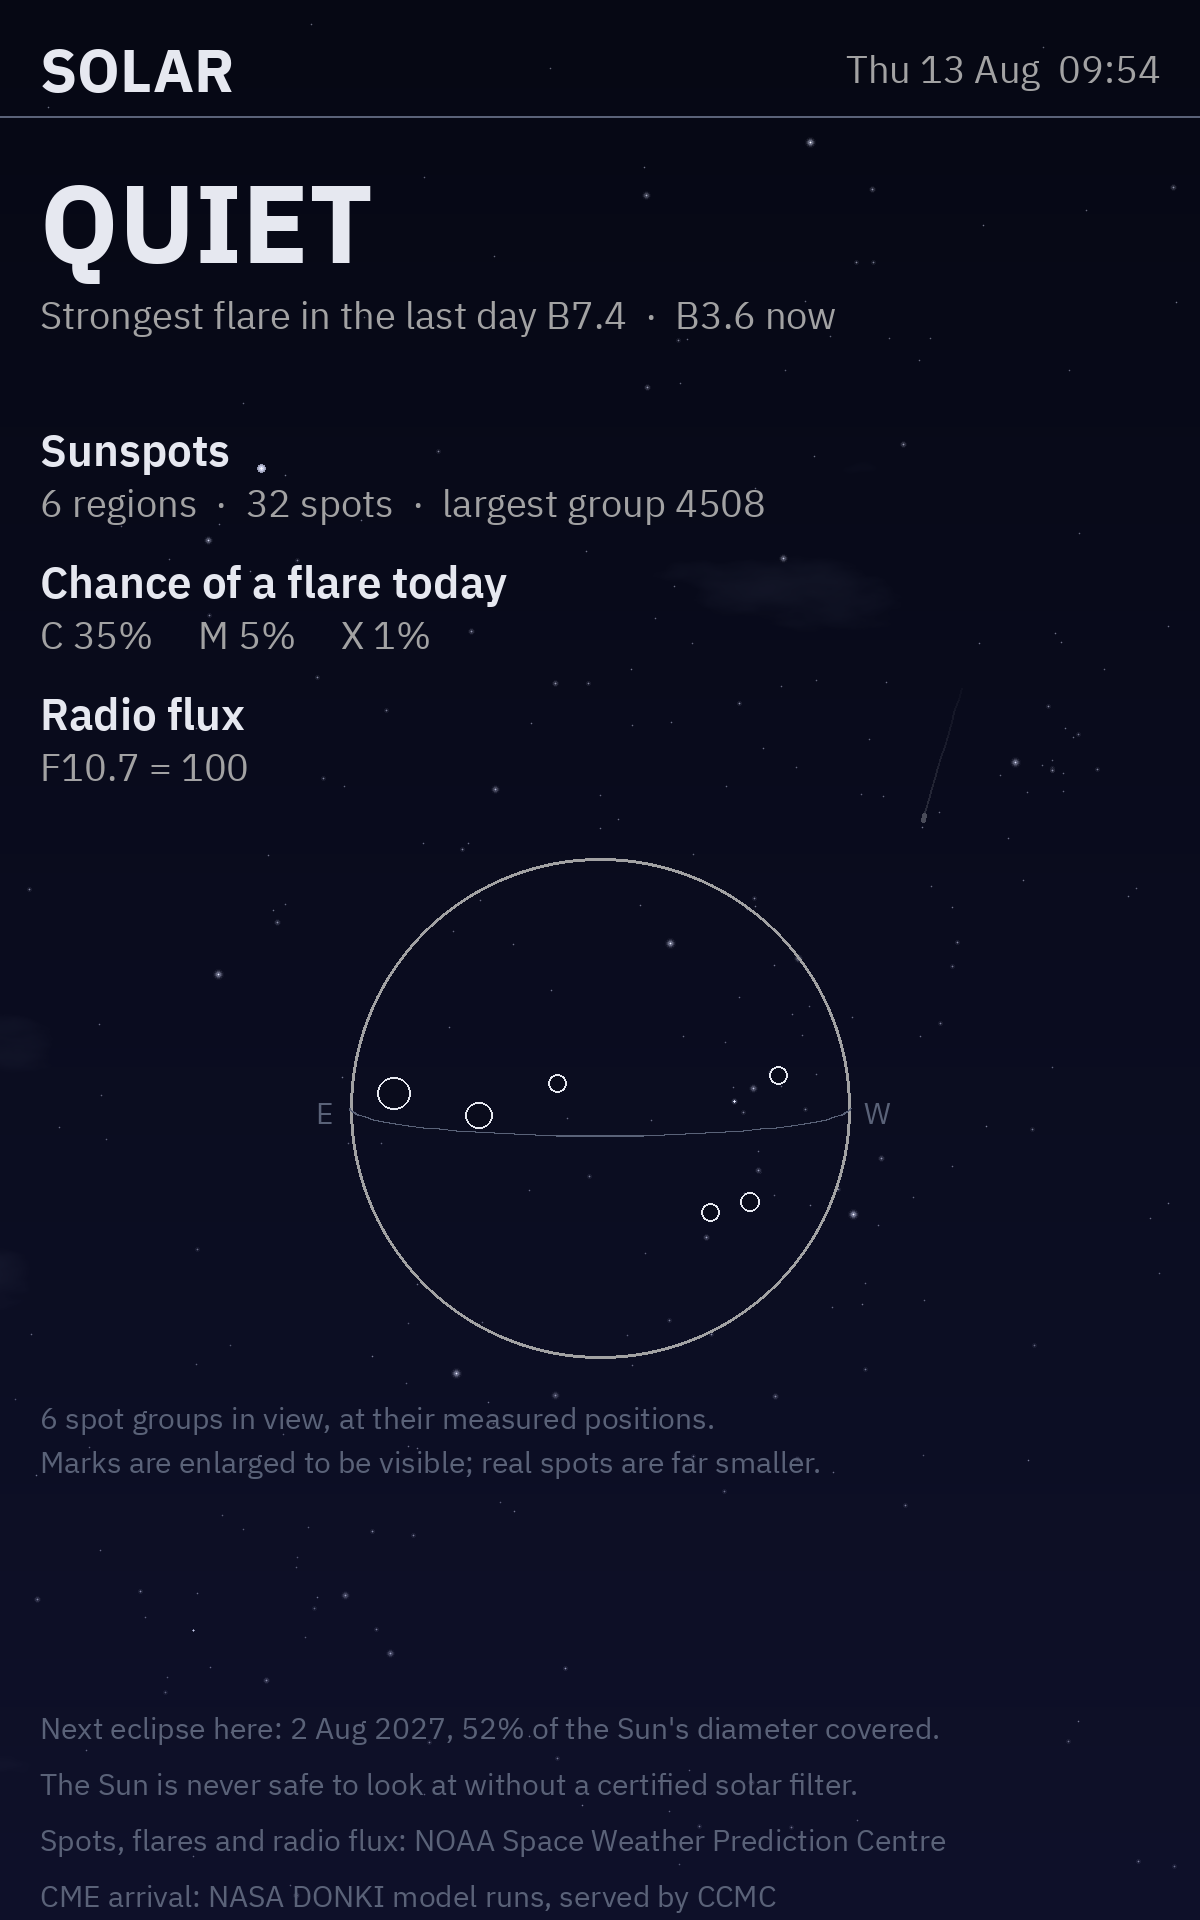
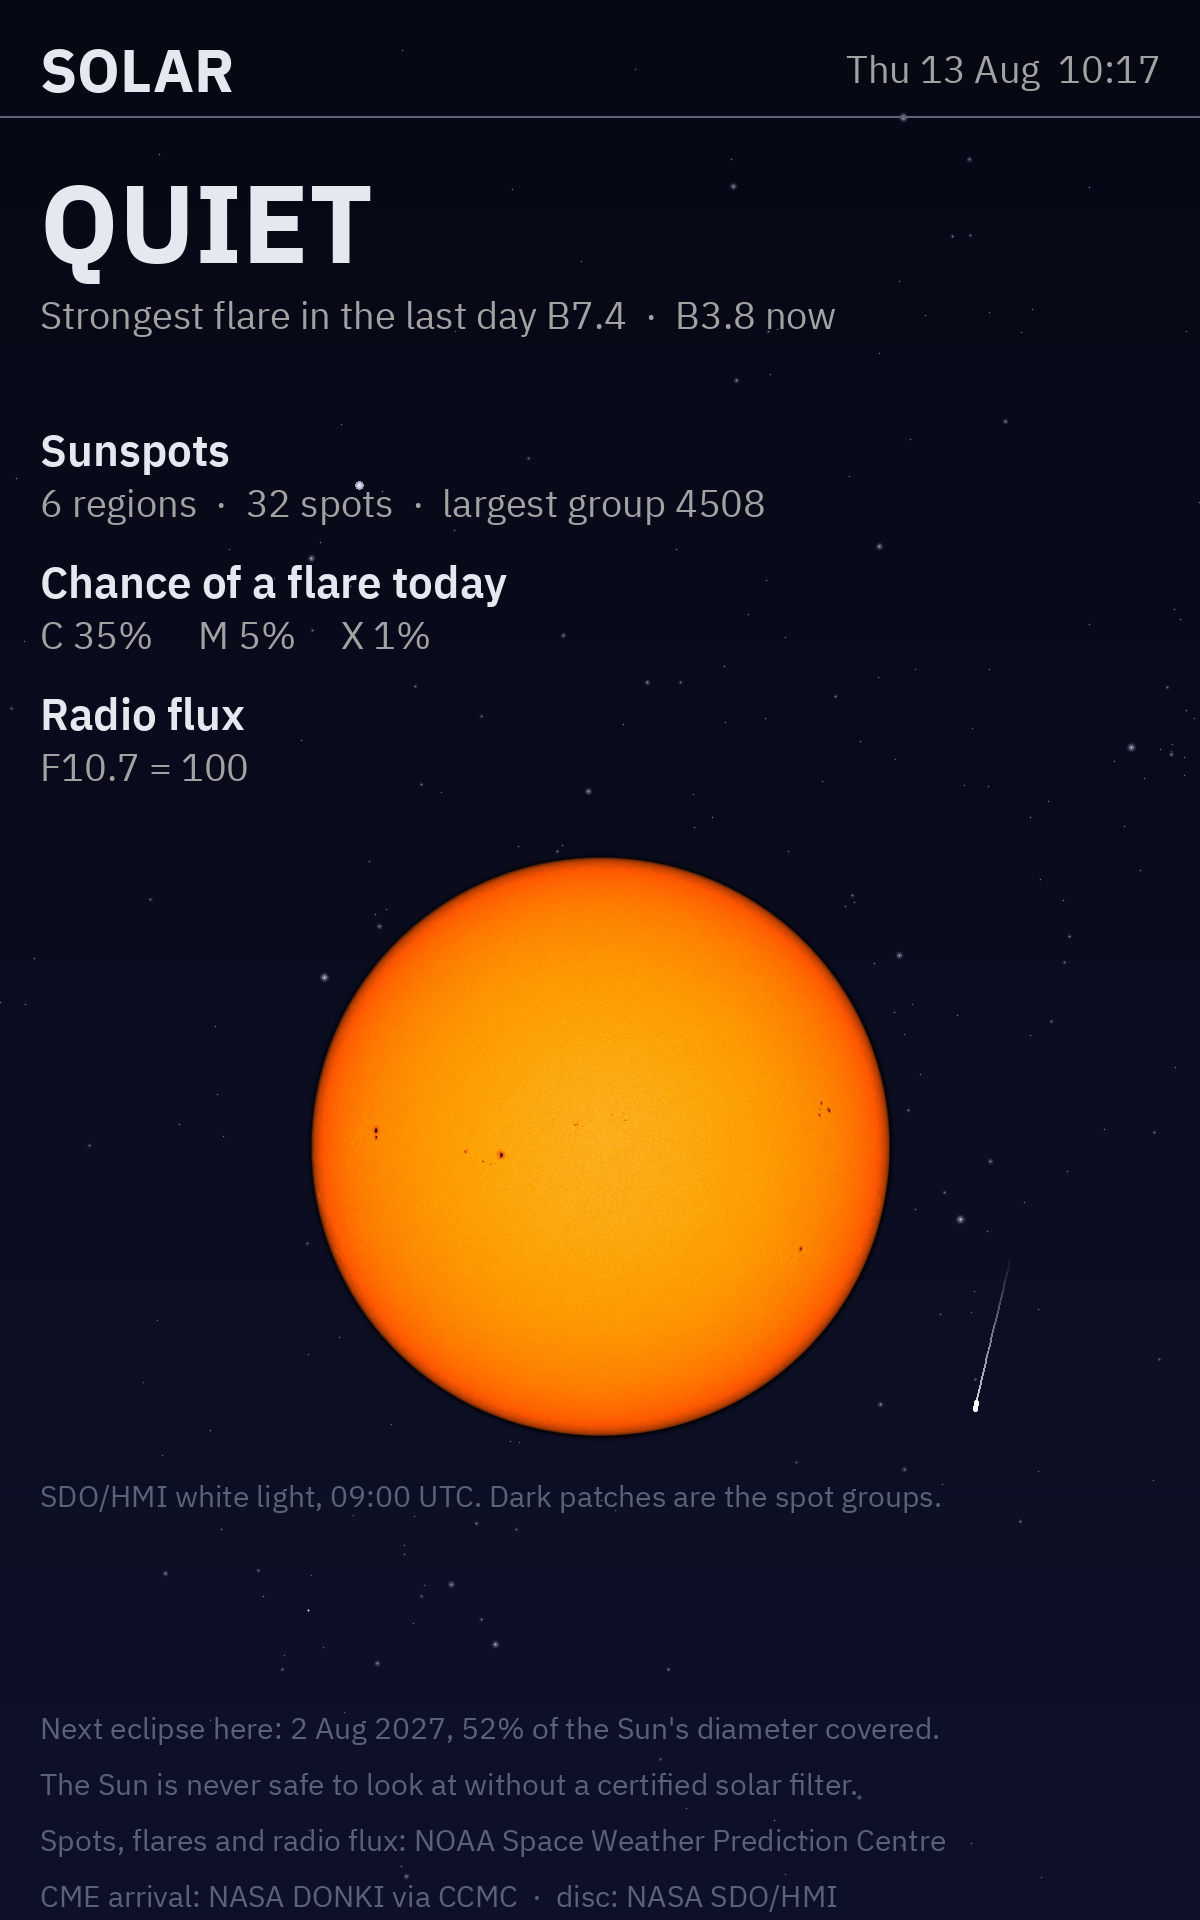
Photograph the solar disc instead of drawing it
SDO's HMI continuum frame is the white-light view, so it is the one with the
sunspots actually in it - the direct analogue of the Dial-a-Moon frame the
Moon card already uses, and composited the same way, on the same black field
with the same circular mask.

THIS FIXED A DEFECT THE DRAWN DISC SHIPPED WITH THIS MORNING. Overlaying the
computed SWPC positions on an SDO frame put every mark EAST of its real spot
by roughly the same amount: 2 of 6 landed on a spot, and the mirrored control
scored 0, so the offset was systematic rather than noise and the orientation
was not the cause. solar_regions.json is a DAILY snapshot and rotation carries
a group about 13.2 degrees a day - around 40 px at this scale after eight
hours, and up to 110 px by the time the next report is issued.

The projection was right and its input was stale, so no check of the
projection could have found it. Only ground truth could, and the photograph is
ground truth. A frame has no lag: it shows the spots where they were at its own
timestamp, which the page now prints.

THE 1024 FRAME, FOR A MEASURED REASON. All three published sizes carry a
caption strip along the bottom. At 1024 and 2048 a disc-sized circular mask
removes it outright - zero caption pixels survive - but at 512 the caption is
proportionally larger and the disc sits 10 px high, leaving 832 inside the
mask. The 2048 frame is 38 px off centre and four times the bytes. Only 1024 is
[…]

diff --git a/build10/display.py b/build10/display.py
@@ -28,7 +28,7 @@ from core.aurora import FIELD_ALT_BINS, FIELD_AZ_BINS, compass
 from core.aurora import visible_now as aurora_now
 from core.daemon import Paged, flatten, install_signal_handlers, run_daemon
 from core.fonts import font
-from core.imagery import moon_image, paste_moon
+from core.imagery import moon_image, paste_moon, paste_sun, sun_image
 from core.meteors import (
     NAMED_SHOWER_FLOOR,
     PEAKING_STRENGTH,
@@ -82,7 +82,7 @@ from core.touch import TouchReader
 from core.values import _dt, _f, _i, _phrase, load_config
 from core.weather import KMH_TO_MPH, compare_sources, make_fetcher, obscuration_of
 
-VERSION = "0.41.0"
+VERSION = "0.42.0"
 
 # The largest image this program legitimately opens is a 730x730 moon frame.
 # PIL's default decompression-bomb threshold (~178M pixels) would let a hostile
@@ -1606,7 +1606,7 @@ SOL_BAND_ROWS_Y = 780
 
 # The disc, and the marks on it. SOL_SPOT_SCALE is an exaggeration factor, not a
 # measurement: at true scale a 120-millionths group is about 3 px across here.
-SOL_DISC_R, SOL_DISC_BOTTOM = 250, 1400
+SOL_DISC_R, SOL_DISC_BOTTOM = 290, 1400
 SOL_SPOT_MIN, SOL_SPOT_MAX, SOL_SPOT_SCALE = 9, 30, 6.0
 
 
@@ -1758,16 +1758,40 @@ def _solar_rows(data, compact):
     return rows
 
 
-def _draw_solar_disc(draw, groups, y, f, now=None):
-    """The Sun's disc with today's spot groups on it, at their real positions.
+def _draw_solar_photo(img, draw, photo, observed, y, f):
+    """The photographed disc, which is the preferred drawing and the honest one.
 
-    ⇒ THE POSITIONS ARE REAL AND THE MARK SIZES ARE NOT, which is the same
-    bargain the Moon card makes and it is stated on the page for the same
-    reason. A group of 120 millionths of the hemisphere is about 3 px across at
-    this radius - a real sunspot disc is nearly empty at true scale - so the
-    marks are floored at a legible size. Enlarging the mark keeps the count and
-    the placement honest while making them visible; drawing them true to scale
-    would show an empty circle and assert that nothing was there.
+    ⇒ A PHOTOGRAPH HAS NO POSITION LAG, AND THE DRAWN DISC DID. Marks plotted
+    from SWPC's regional report sat consistently east of the real spots, because
+    that report is a daily snapshot while rotation carries a group about 13.2
+    degrees a day. The frame shows the spots where they were at its own
+    timestamp, so there is no rotation arithmetic to get wrong and no enlarged
+    mark to apologise for - the spots are simply in the picture, at their real
+    size.
+    """
+    cx, r = W // 2, SOL_DISC_R
+    paste_sun(img, photo, cx, y, r)
+    draw.text((MARGIN, y + r + 40),
+              f"SDO/HMI white light, {observed:%H:%M} UTC. Dark patches are the "
+              f"spot groups.",
+              font=f["xs"], fill=DIM)
+
+
+def _draw_solar_disc(draw, groups, y, f, now=None):
+    """The Sun's disc drawn, for when no photograph could be fetched.
+
+    ⚠ THE POSITIONS BEHIND THIS ARE UP TO A DAY STALE and it is the reason the
+    photograph is preferred. SWPC's regional report is a daily snapshot, and
+    solar rotation carries a group about 13.2 degrees a day - measured against
+    an SDO frame, every mark sat east of its real spot by roughly the report's
+    age. Nothing here corrects for that: this path exists so the page still
+    shows the disc when the network is down, and at that point stating roughly
+    where the groups were is better than an empty page. The caption says the
+    positions are as reported rather than as they now are.
+
+    ⇒ THE MARK SIZES ARE NOT REAL EITHER. A group of 120 millionths of the
+    hemisphere is about 3 px across at this radius, so the marks are floored at
+    a legible size - the same bargain the Moon card makes, stated on the page.
 
     Far-side positions are dropped rather than folded onto the visible half. A
     region that has rotated over the west limb is genuinely not in view, and the
@@ -1811,8 +1835,8 @@ def _draw_solar_disc(draw, groups, y, f, now=None):
         drawn += 1
 
     draw.text((MARGIN, y + r + 40),
-              f"{drawn} spot group{'' if drawn == 1 else 's'} in view, at their "
-              f"measured positions.",
+              f"{drawn} spot group{'' if drawn == 1 else 's'}, as last reported "
+              f"rather than as they now are.",
               font=f["xs"], fill=DIM)
     draw.text((MARGIN, y + r + 84),
               "Marks are enlarged to be visible; real spots are far smaller.",
@@ -1873,10 +1897,22 @@ def render_solar(states, lat, lon, now=None):
     # The disc is centred in whatever is left below the rows rather than pinned,
     # because the two states end their rows 250 px apart - a fixed centre either
     # leaves a gap in one or puts the disc under the last row in the other.
+    # The photograph is preferred and the drawing is the fallback, not the other
+    # way round: the frame carries no position lag, and the drawn marks do.
     groups = (data.get("regions") or {}).get("groups") or []
-    if groups:
+    photo, observed = sun_image()
+    if photo is not None or groups:
         cy = max(y + SOL_DISC_R + 40, (y + SOL_DISC_BOTTOM) // 2)
-        _draw_solar_disc(draw, groups, cy, f, now=now)
+        if photo is not None:
+            _draw_solar_photo(img, draw, photo, observed, cy, f)
+        else:
+            _draw_solar_disc(draw, groups, cy, f, now=now)
+    # Credited only when the frame was actually used. Left unconditional, the
+    # page would attribute a disc it had drawn itself to SDO, on precisely the
+    # occasions SDO could not be reached.
+    credit = ("CME arrival: NASA DONKI via CCMC  ·  disc: NASA SDO/HMI"
+              if photo is not None else
+              "CME arrival: NASA DONKI model runs, served by CCMC")
 
     # The eclipse line stays in the footer whenever the band is not up, however
     # far off the event is. It is the rarest thing this panel shows and the one
@@ -1897,9 +1933,7 @@ def render_solar(states, lat, lon, now=None):
     draw.text((MARGIN, H - 100),
               "Spots, flares and radio flux: NOAA Space Weather Prediction Centre",
               font=f["xs"], fill=DIM)
-    draw.text((MARGIN, H - 44),
-              "CME arrival: NASA DONKI model runs, served by CCMC",
-              font=f["xs"], fill=DIM)
+    draw.text((MARGIN, H - 44), credit, font=f["xs"], fill=DIM)
     return img
 
 

diff --git a/core/imagery.py b/core/imagery.py
@@ -1,12 +1,15 @@
-"""Real pictures of real things: deep-sky cutouts and the current lunar frame.
+"""Real pictures of real things: deep-sky cutouts, the lunar frame, the Sun.
 
-Both render on black, so they composite onto the animated night sky with no
-panel edges. Both are network calls and belong on the data thread; neither may
-be called from a render loop.
+All three render on black, so they composite onto the animated sky with no
+panel edges. All three are network calls and belong on the data thread; none
+may be called from a render loop.
 """
+import email.utils
+import io
 import logging
+import os
 import re
-from datetime import datetime, timezone
+from datetime import datetime, timedelta, timezone
 from pathlib import Path
 
 import requests
@@ -115,6 +118,113 @@ def moon_image():
     except Exception as e:
         log.warning("Moon frame unavailable (%s); drawing the phase instead.", e)
         return None, {}
+
+
+# Real solar imagery from SDO's HMI instrument - the continuum frame, which is
+# the white-light view and therefore the one with the sunspots actually in it.
+# The direct analogue of the Dial-a-Moon frame above: disc centred on black,
+# ready to composite.
+#
+# ⇒ THE 1024 FRAME, FOR A MEASURED REASON. All three published sizes carry a
+# caption strip along the bottom. At 1024 and 2048 a disc-sized circular mask
+# removes it outright - zero caption pixels survive - but at 512 the caption is
+# proportionally larger and the disc sits 10 px high, leaving 832 of them inside
+# the mask. The 2048 frame is 38 px off centre and four times the bytes. Only
+# the 1024 frame is both centred and self-cleaning.
+#
+# ⇒ THE PHOTOGRAPH REPLACED A DRAWN DISC, AND FIXED IT. Marks plotted from
+# SWPC's regional report sat consistently EAST of the real spots, because that
+# report is a daily snapshot and rotation carries a group about 13.2 degrees a
+# day - up to 110 px at this scale by the time the next one is issued. A
+# photograph has no such lag: it shows the spots where they were at its own
+# timestamp. This was found by overlaying the computed positions on the frame,
+# which no check of the projection could have revealed, because the projection
+# was right and its input was stale.
+SUN_CACHE = CACHE_ROOT / "sun"
+SDO_URL = "https://sdo.gsfc.nasa.gov/assets/img/latest/latest_1024_HMIIC.jpg"
+SUN_FRAME = SUN_CACHE / "continuum.jpg"
+# Measured, and stable from 5% to 20% of peak brightness: 940 px across a 1024
+# frame, centred to within half a pixel. Higher thresholds read smaller because
+# of limb darkening, not because the disc is.
+SUN_DISC_FRAC = 940 / 1024
+SUN_REFRESH_MINUTES = 30
+# Spots drift about 0.55 degrees an hour, which at a 250 px radius is roughly
+# 2 px. So a frame a few hours old is honest, and unlike the Moon there is no
+# phase to get wrong - the refusal here is about a picture that has stopped
+# describing today, not one that is subtly mistimed.
+SUN_MAX_AGE_HOURS = 12
+
+
+def _http_date(value):
+    """A Last-Modified header as an aware UTC datetime, or None."""
+    try:
+        return email.utils.parsedate_to_datetime(value).astimezone(timezone.utc)
+    except (TypeError, ValueError):
+        return None
+
+
+def sun_image():
+    """(image, observed_at) for the Sun's disc as photographed, or (None, None).
+
+    NETWORK - background thread only; never call this from the render loop.
+
+    ⇒ THE CACHED FILE'S MTIME IS SET TO THE FRAME'S OWN TIMESTAMP, not to when
+    it was fetched. The age that matters is the picture's, not the download's,
+    and keeping one number rather than a file plus a sidecar means the two
+    cannot disagree.
+
+    Returns None rather than an old frame past the age limit, so a caller falls
+    back to something computed from current data instead of showing a disc that
+    has rotated on. Same rule as moon_image, for the same reason.
+    """
+    SUN_CACHE.mkdir(parents=True, exist_ok=True)
+    now = datetime.now(timezone.utc)
+
+    def cached(limit):
+        if not SUN_FRAME.exists():
+            return None, None
+        seen = datetime.fromtimestamp(SUN_FRAME.stat().st_mtime, timezone.utc)
+        if now - seen > limit:
+            return None, None
+        try:
+            return Image.open(SUN_FRAME).convert("RGB"), seen
+        except Exception:
+            return None, None
+
+    fresh, seen = cached(timedelta(minutes=SUN_REFRESH_MINUTES))
+    if fresh is not None:
+        return fresh, seen
+
+    try:
+        r = requests.get(SDO_URL, timeout=30)
+        r.raise_for_status()
+        img = Image.open(io.BytesIO(r.content)).convert("RGB")
+        SUN_FRAME.write_bytes(r.content)
+        observed = _http_date(r.headers.get("last-modified")) or now
+        os.utime(SUN_FRAME, (observed.timestamp(), observed.timestamp()))
+        log.info("Solar frame fetched, observed %s.", observed.strftime("%H:%M UTC"))
+        return img, observed
+    except Exception as e:
+        log.warning("Solar frame unavailable (%s).", e)
+        return cached(timedelta(hours=SUN_MAX_AGE_HOURS))
+
+
+def paste_sun(img, photo, cx, cy, r):
+    """Composite an SDO continuum frame as the solar disc.
+
+    The mask is what removes the caption strip SDO prints along the bottom of
+    every frame, so it is load-bearing rather than cosmetic. Feathered like the
+    lunar one because the disc's size in the frame moves with the Earth-Sun
+    distance - about 1.7% either way over a year - and a hard edge would show
+    that as a black rim in January.
+    """
+    d = int(2 * r / SUN_DISC_FRAC)
+    disc = photo.resize((d, d), Image.LANCZOS)
+    mask = Image.new("L", (d, d), 0)
+    inset = (d - 2 * r) // 2
+    ImageDraw.Draw(mask).ellipse([inset, inset, d - inset, d - inset], fill=255)
+    mask = mask.filter(ImageFilter.GaussianBlur(2))
+    img.paste(disc, (cx - d // 2, cy - d // 2), mask)
 
 
 def paste_moon(img, photo, cx, cy, r, ring=True):

diff --git a/tools/solar_preview.py b/tools/solar_preview.py
@@ -143,6 +143,20 @@ if cme:
 else:
     print("  08_cme_inbound          -> no historical CME found to render")
 
+# 9. The disc, both ways. The photographic path is what ships; the drawn one is
+#    reached only when SDO cannot be fetched, which is exactly the state nobody
+#    looks at until it happens.
+save("09_disc_photo", display.render_solar({}, LAT, LON, now=now))
+real_sun = display.sun_image
+display.sun_image = lambda: (None, None)
+save("10_disc_drawn_fallback", display.render_solar({}, LAT, LON, now=now))
+display.sun_image = real_sun
+photo, observed = display.sun_image()
+print(f"     SDO frame: {'fetched' if photo is not None else 'UNAVAILABLE'}"
+      + (f", observed {observed:%Y-%m-%d %H:%M %Z}, "
+         f"{(datetime.now(timezone.utc) - observed).total_seconds() / 3600:.1f} h old"
+         if photo is not None else ""))
+
 # ⇒ EVERY STRING THE PAGE DRAWS, NOT A LIST WRITTEN BY HAND. The first pass
 # measured the band lines and the rows and passed, while the line that actually
 # ran off the edge - the sentence under the verdict - was not in the list,

diff --git a/README.md b/README.md
@@ -157,13 +157,17 @@ Source: NOAA SWPC's OVATION model. No key, no registration.
 
 Every other conditional page here exists only after dark, because aurora and meteors are conditions of the night sky. This one inverts that: it appears **whenever the Sun is above the horizon**, and fills the hours when the rest of the panel has least to say.
 
-![The solar page on a quiet day: the word QUIET over the day's strongest flare, rows for sunspots, flare odds and radio flux, and the solar disc below with six spot groups marked at their measured positions either side of a tilted equator.](screenshots/10in-solar.png)
+![The solar page on a quiet day: the word QUIET over the day's strongest flare, rows for sunspots, flare odds and radio flux, and below them a photograph of the Sun's disc in white light with its spot groups visible as small dark marks.](screenshots/10in-solar.png)
 
 > **An ordinary quiet day, 13 August 2026** — captured off the panel. Six spot groups, nothing above a B-class flare, and no CME modelled to arrive.
 
 It is also the only page here that is **always present rather than gated on something happening**. That is a deliberate departure from the rule the other pages follow, and what makes it honest is that the subject really is always there: a quiet Sun is a fact about today, not an empty page.
 
-**The disc is drawn from measured positions.** Each spot group's heliographic latitude and longitude comes from SWPC's regional reports, projected orthographically and tilted by the season — the Sun's axis leans up to 7.25° either way through the year, so the equator bows above or below centre and the disc reads as a sphere rather than a circle. Groups that have rotated onto the far side are dropped rather than folded back onto the wrong limb, and solar west is to the right, as in every published solar image. **The positions are real and the mark sizes are not**: a group covering a hundred-millionth of the visible hemisphere is a few pixels across, so the marks are enlarged to be visible and the page says so.
+**The disc is a photograph.** SDO's HMI continuum frame — the white-light view, which is the one with the sunspots actually in it — composited the same way the Moon card composites its Dial-a-Moon frame, on the same black field with the same circular mask. The mask is doing real work here: it removes the caption strip SDO prints along the bottom of every frame.
+
+That replaced a drawn disc, and fixed it. The drawing plotted each group from SWPC's regional report, and overlaying those computed positions on an SDO frame showed **every mark sitting east of its real spot by about the same amount** — because the report is a *daily* snapshot while solar rotation carries a group roughly 13.2° a day, up to 110 px at this scale by the time the next one is issued. The projection was correct; its input was stale, and only a photograph could have shown that. A frame has no such lag: it shows the spots where they were at its own timestamp, which the page prints.
+
+The drawn disc survives as the fallback for when SDO cannot be reached — orthographic, tilted by the season (the Sun's axis leans up to 7.25° either way through the year, so the equator bows off centre and the disc reads as a sphere), far-side groups dropped rather than folded onto the wrong limb, and solar west to the right as in every published solar image. In that state the marks are enlarged to be visible and the caption says the positions are as last reported rather than as they now are.
 
 **An eclipse takes the top of the page** when one is within a day, with a countdown, and is stated as a single line at the foot however far off it is otherwise — the rarest thing this panel shows is worth knowing about in advance. From southern England expect roughly one visible partial a year and none at all in some years; the next is 2 August 2027.
 
@@ -173,7 +177,7 @@ It is also the only page here that is **always present rather than gated on some
 
 **Nothing on the page is phrased as an instruction to look at the Sun**, and the filter warning is attached to the coverage figures rather than left as a footnote, because that is the number somebody acts on.
 
-Sources: NOAA SWPC for spots, flares and radio flux; NASA's DONKI model runs served by CCMC for a coronal mass ejection's predicted arrival and Kp. Both keyless, neither requiring registration.
+Sources: NOAA SWPC for spots, flares and radio flux; NASA's DONKI model runs served by CCMC for a coronal mass ejection's predicted arrival and Kp; NASA SDO/HMI for the disc. All keyless, none requiring registration.
 
 ## 👆 Touch controls
 
